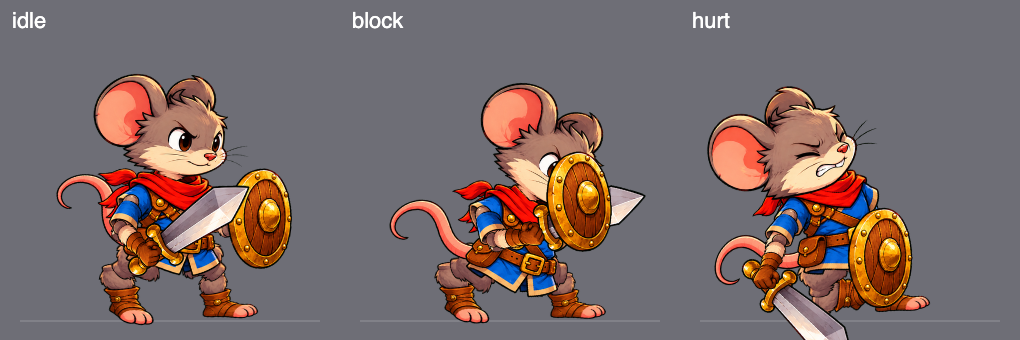
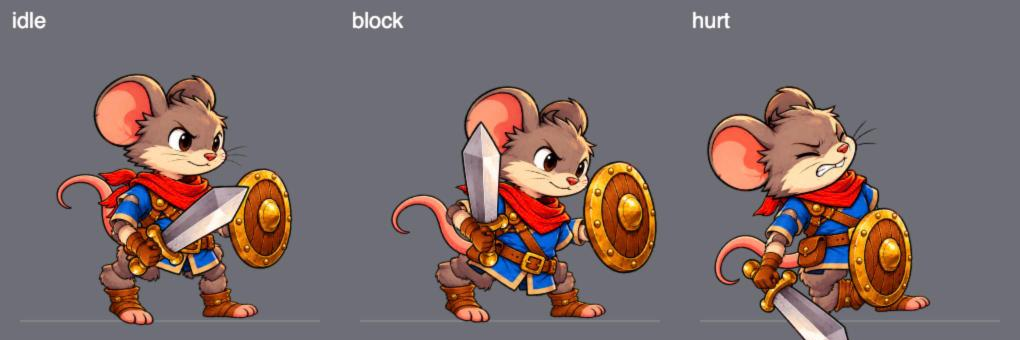
T007: block pose shield forward, braced; shield glint on block (lead note)
Rig block leans hard into the shield pushed up and out (drawn 1.12x),
face clear over the rim, sword cocked high, boots flat. A star glint
pops on the shield rim after each blocked hit (juice block.glint, lab
Juice sliders). Screens 1, 3, 4 replaced.

diff --git a/src/render/effects.js b/src/render/effects.js
@@ -1,4 +1,4 @@
-// Visual effects driven by sim events: slash swooshes, hit sparks, block clangs, damage numbers, dust. Render-only.
+// Visual effects driven by sim events: slash swooshes, hit sparks, block clangs and glints, damage numbers, dust. Render-only.
 import { bus } from '../core/events.js';
 import { JUICE } from '../data/juice.js';
 
@@ -27,6 +27,8 @@ export function createEffects() {
       add({ type: 'spark', x, y: sy, vx: Math.cos(a) * s, vy: Math.sin(a) * s - 1, life: B.life, clang: true });
     }
     add({ type: 'shieldFlash', x, y: sy, dir: out, r: B.flashR, life: B.flashLife });
+    const G = B.glint;   // star glint on the shield rim, just after the clang (t < 0 = not shown yet)
+    add({ type: 'glint', x: target.x + out * G.dx, y: target.y - target.z - G.dy, size: G.size, life: G.life, t: -G.delay });
     add({ type: 'ring', x, y: sy, life: B.ringLife, r: B.ringR });
     add({ type: 'ring', x, y: sy, life: B.ringLife + 6, r: B.ringR * 1.7, thin: true });
     if (damage > 0) add({ type: 'num', x, y: sy - 20, text: String(damage), hero: target.team === 'hero', big: false, life: JUICE.numbers.life });
@@ -87,6 +89,20 @@ const DRAW = {
     ctx.fillStyle = g; ctx.beginPath();
     ctx.ellipse(e.x, e.y, e.r * 0.7, e.r * 1.3, 0, e.dir > 0 ? -Math.PI / 2 : Math.PI / 2, e.dir > 0 ? Math.PI / 2 : Math.PI * 1.5);
     ctx.fill(); ctx.restore();
+  },
+  glint(ctx, e, k) {   // four-point star that pops open and shrinks away, turning a little
+    if (k < 0) return;
+    const s = e.size * Math.sin(Math.PI * k), w = s * 0.16;
+    ctx.save(); ctx.globalCompositeOperation = 'lighter';
+    ctx.translate(e.x, e.y); ctx.rotate(k * 0.6);
+    ctx.fillStyle = 'rgba(255,250,215,0.95)';
+    for (const [a, l] of [[0, 1], [Math.PI / 2, 1], [Math.PI / 4, 0.45], [-Math.PI / 4, 0.45]]) {
+      ctx.save(); ctx.rotate(a); ctx.beginPath();
+      ctx.moveTo(-s * l, 0); ctx.lineTo(0, -w); ctx.lineTo(s * l, 0); ctx.lineTo(0, w); ctx.closePath(); ctx.fill();
+      ctx.restore();
+    }
+    ctx.beginPath(); ctx.arc(0, 0, w * 1.4, 0, Math.PI * 2); ctx.fill();
+    ctx.restore();
   },
   num(ctx, e, k) {
     const N = JUICE.numbers, pop = k < 0.15 ? 1 + (0.15 - k) * 4 : 1;

diff --git a/src/data/rigs/mouse-fighter-poses.js b/src/data/rigs/mouse-fighter-poses.js
@@ -41,14 +41,13 @@ export default {
     'leg-back-upper': -60, 'leg-back-lower': 75, 'leg-front-upper': -25, 'leg-front-lower': 70,
     tail: 25, 'scarf-tail': 30,
   },
-  block: {   // shield wall (user: "like spartans behind their shield wall"): hunched low behind the raised shield,
-    // eyes just over the rim, sword arm tucked behind the shield with the point out past its edge.
+  block: {   // shield forward, braced: deep forward lean behind the shield pushed up and out (drawn a little
+    // larger, as if thrust at the viewer), eyes over the rim, sword cocked high ready to answer.
     // Legs: boots kept as flat as in stance (torso + upper + lower), soles on the floor at this crouch.
-    torso: 16, head: 12, dy: 9,
-    'arm-back-upper': -98, 'arm-back-lower': -110, shield: 0,
-    'arm-front-upper': -40, 'arm-front-lower': -80, sword: -274,
-    'arm-front-upper.order': 10.1, 'sword.order': 10.2, 'arm-front-lower.order': 10.3,   // behind the shield (11), over the head (10)
-    'leg-back-upper': -103, 'leg-back-lower': 75, 'leg-front-upper': 64, 'leg-front-lower': -80,
+    torso: 18, head: -6, dy: 8,
+    'arm-back-upper': -105, 'arm-back-lower': -30, shield: 0, 'shield.sx': 1.12, 'shield.sy': 1.12,
+    'arm-front-upper': 60, 'arm-front-lower': -130, sword: -40,
+    'leg-back-upper': -104, 'leg-back-lower': 74, 'leg-front-upper': 59, 'leg-front-lower': -77,
     tail: -20, 'scarf-tail': -25,
   },
   hurt: {

diff --git a/src/data/juice.js b/src/data/juice.js
@@ -6,7 +6,9 @@ export const JUICE = {
   sparks: { count: 10, speed: 5, life: 16 },
   dust: { count: 8, life: 24 },
   slash: { life: 9, width: 14, color: 'rgba(255,255,240,0.95)', edge: 'rgba(255,214,110,0.9)' },
-  // blocked hit: sparks off the shield (fanned back toward the attacker), white flash on the shield side, double clang ring
-  block: { sparks: 18, speed: 9, spread: 1.3, life: 16, flashLife: 8, flashR: 46, ringR: 30, ringLife: 14 },
+  // blocked hit: sparks off the shield (fanned back toward the attacker), white flash on the shield side, double clang ring,
+  // then a star glint on the shield's upper rim (glint dx/dy: px forward of / above the blocker's feet; delay: frames after the clang)
+  block: { sparks: 18, speed: 9, spread: 1.3, life: 16, flashLife: 8, flashR: 46, ringR: 30, ringLife: 14,
+    glint: { dx: 46, dy: 78, size: 26, life: 20, delay: 3 } },
   koHitstop: 6, koShake: 6, heavyLandShake: 3,
 };

diff --git a/src/data/lab-schema.js b/src/data/lab-schema.js
@@ -76,6 +76,8 @@ export const LAB_SCHEMA = [
     fields: [
       ['shake.decay', 0.5, 0.99, 0.01], ['shake.max', 0, 60, 1], ['flashFrames', 1, 30, 1],
       ['koHitstop', 0, 40, 1], ['koShake', 0, 30, 0.5],
+      ['block.glint.dx', -40, 120, 1], ['block.glint.dy', 0, 140, 1], ['block.glint.size', 0, 60, 1],
+      ['block.glint.life', 1, 60, 1], ['block.glint.delay', 0, 20, 1],
     ],
   },
   {

diff --git a/docs/MODULES.md b/docs/MODULES.md
@@ -38,7 +38,7 @@ One line per file: what it does and what it exports. **Read this instead of the 
 | `src/render/standee.js` | Fighter drawn as a standee: lean/squash/hop per state (block = braced forward lean, jolts back in blockstun; `BLOCK_LEAN` is undone by the rig) and move phase, flips, flashes, tints | `drawStandee drawShadow poseOf` |
 | `src/render/rig.js` | Fighter drawn as a cutout rig: part hierarchy -> buffer, then placed like a standee (lean, flip, flash, tints). Draws swap images (`layoutRig(rig, joints, swap)` returns each part's `img`); optional held pose (`cast`) | `drawRig layoutRig` |
 | `src/render/rig-pose.js` | Rig pose per state/move phase (waves, windup/through/strike, easing, overshoot) and blending from the last drawn pose; part swaps per pose/phase (switch at once, strike swaps last `timing.swapBack` of recovery); optional pose override. Channels: joint angles, dx/dy, per-part `.sx/.sy` stretch and `.order`. Pure | `targetPose rigJoints channelsOf jointsOfRig` |
-| `src/render/effects.js` | Slash swooshes (optionally `flat` for level sweeps), sparks, rings, damage numbers, dust; block clang (bright sparks toward the attacker, shield-side flash, double ring) (from events) | `createEffects` |
+| `src/render/effects.js` | Slash swooshes (optionally `flat` for level sweeps), sparks, rings, damage numbers, dust; block clang (bright sparks toward the attacker, shield-side flash, double ring, then a star glint on the shield rim) (from events) | `createEffects` |
 | `src/render/juice.js` | Screen shake + hit-stop counters (from events; `block` uses the blocker's `block.hitstop/shake`) | `createJuice` |
 | `src/render/hud.js` | Portrait, health bars, wave banner, KOs/XP, hints, game over, pause | `drawHud drawPaused` |
 | `src/render/debug.js` | Overlay: floor belt, hurtboxes, hitboxes, states, AI tokens | `drawDebug` |
@@ -78,7 +78,7 @@ Run log fields (one object per run; the player only):
 | File | Purpose |
 |---|---|
 | `src/data/rules.js` | Gravity, hit depth, max simultaneous attackers, knockdown timings, wave delay |
-| `src/data/juice.js` | Shake, flash, number, spark, dust, slash look |
+| `src/data/juice.js` | Shake, flash, number, spark, dust, slash look; block clang + glint |
 | `src/data/controls.js` | Key and gamepad bindings |
 | `src/data/moves/*.js` | Move sets: timing, hitbox, damage, knockback, hitstop, shake, pose, fx |
 | `src/data/fighters/*.js` + `index.js` | Fighter defs: art, body, stats (RPG hooks), speeds, `block` (optional: walkSpeed, chip, pushback, stun, attackerPush, hitstop, shake), moves, AI params. Registry in index |
@@ -107,7 +107,7 @@ Run log fields (one object per run; the player only):
 |---|---|---|
 | `swing` | `{f, move}` move's active frames begin | effects (slash), run log |
 | `hit` | `{attacker, target, move, damage, x, y, z, ko, targetPhase}` (`targetPhase`: target's move phase before the hit, `none` if idle) | effects, juice, run log |
-| `block` | `{attacker, target, move, damage, x, y, z}` frontal hit stopped by the shield (`damage` = chip, x = shield face) | effects (clang), juice, run log |
+| `block` | `{attacker, target, move, damage, x, y, z}` frontal hit stopped by the shield (`damage` = chip, x = shield face) | effects (clang, glint), juice, run log |
 | `land` | `{f, heavy}` landed from jump / knockdown | effects (dust), juice |
 | `jump` | `{f}` | (none yet; audio later) |
 | `defeated` | `{f}` fighter finished their down state at 0 hp | (none yet) |

diff --git a/docs/STATUS.md b/docs/STATUS.md
@@ -41,6 +41,8 @@
 - League of Legends-style hero kits (passive + three cooldown abilities + an ultimate, on top of the basic combo), like Dungeon Fighter Online. User is a big LoL fan. Idea only, for Stage 8 heroes; mind button count.
 
 ## Last session
+2026-10-15 code: T007 round 4 (lead: "shield forward, braced"): rig `block` now leans hard into the shield pushed up and out (drawn 1.12x, as if thrust at the viewer), face clear over the rim, sword cocked high; boots flat. Shield fights the art a little (see report), so a star glint now pops on the shield rim after each block (juice `block.glint`, lab Juice sliders).
+2026-10-15 code: 7/7 tests. Screens 1, 3, 4 in docs/screens/T007/ replaced (standee pose unchanged, now shows the glint). Art that would help: a face-on/three-quarter shield and a raised-shield arm drawing.
 2026-10-14 code: T007 round 3: block pose is now the user's "spartans behind their shield wall": hunched low behind the raised shield, eyes over the rim, sword arm tucked behind it with the point out past the edge; boots flat on the floor (new rig test). Rig screens replaced.
 2026-10-14 code: T007 round 2: user likes the block mechanics but not the pose ("drops his sword and leans back"). New rig `block`: leaning into a raised shield (chin height), wide brace, sword cocked over the shoulder; standee leans forward and only jolts back on a blocked hit. Screens replaced. User idea for the lead: a parry later.
 2026-10-14 code: T007 on branch `t007-shield-block`: hold L / RB blocks (state `block`, shuffle 0.6, facing locked); frontal hits -> `block` event (chip 0, pushback, 12f blockstun, attacker shoved and its lunge stops), from behind lands. Clang fx, rig `block` pose, standee lean, run log `blocks`, lab "Hero block" sliders. L downloads logs only on game over.
